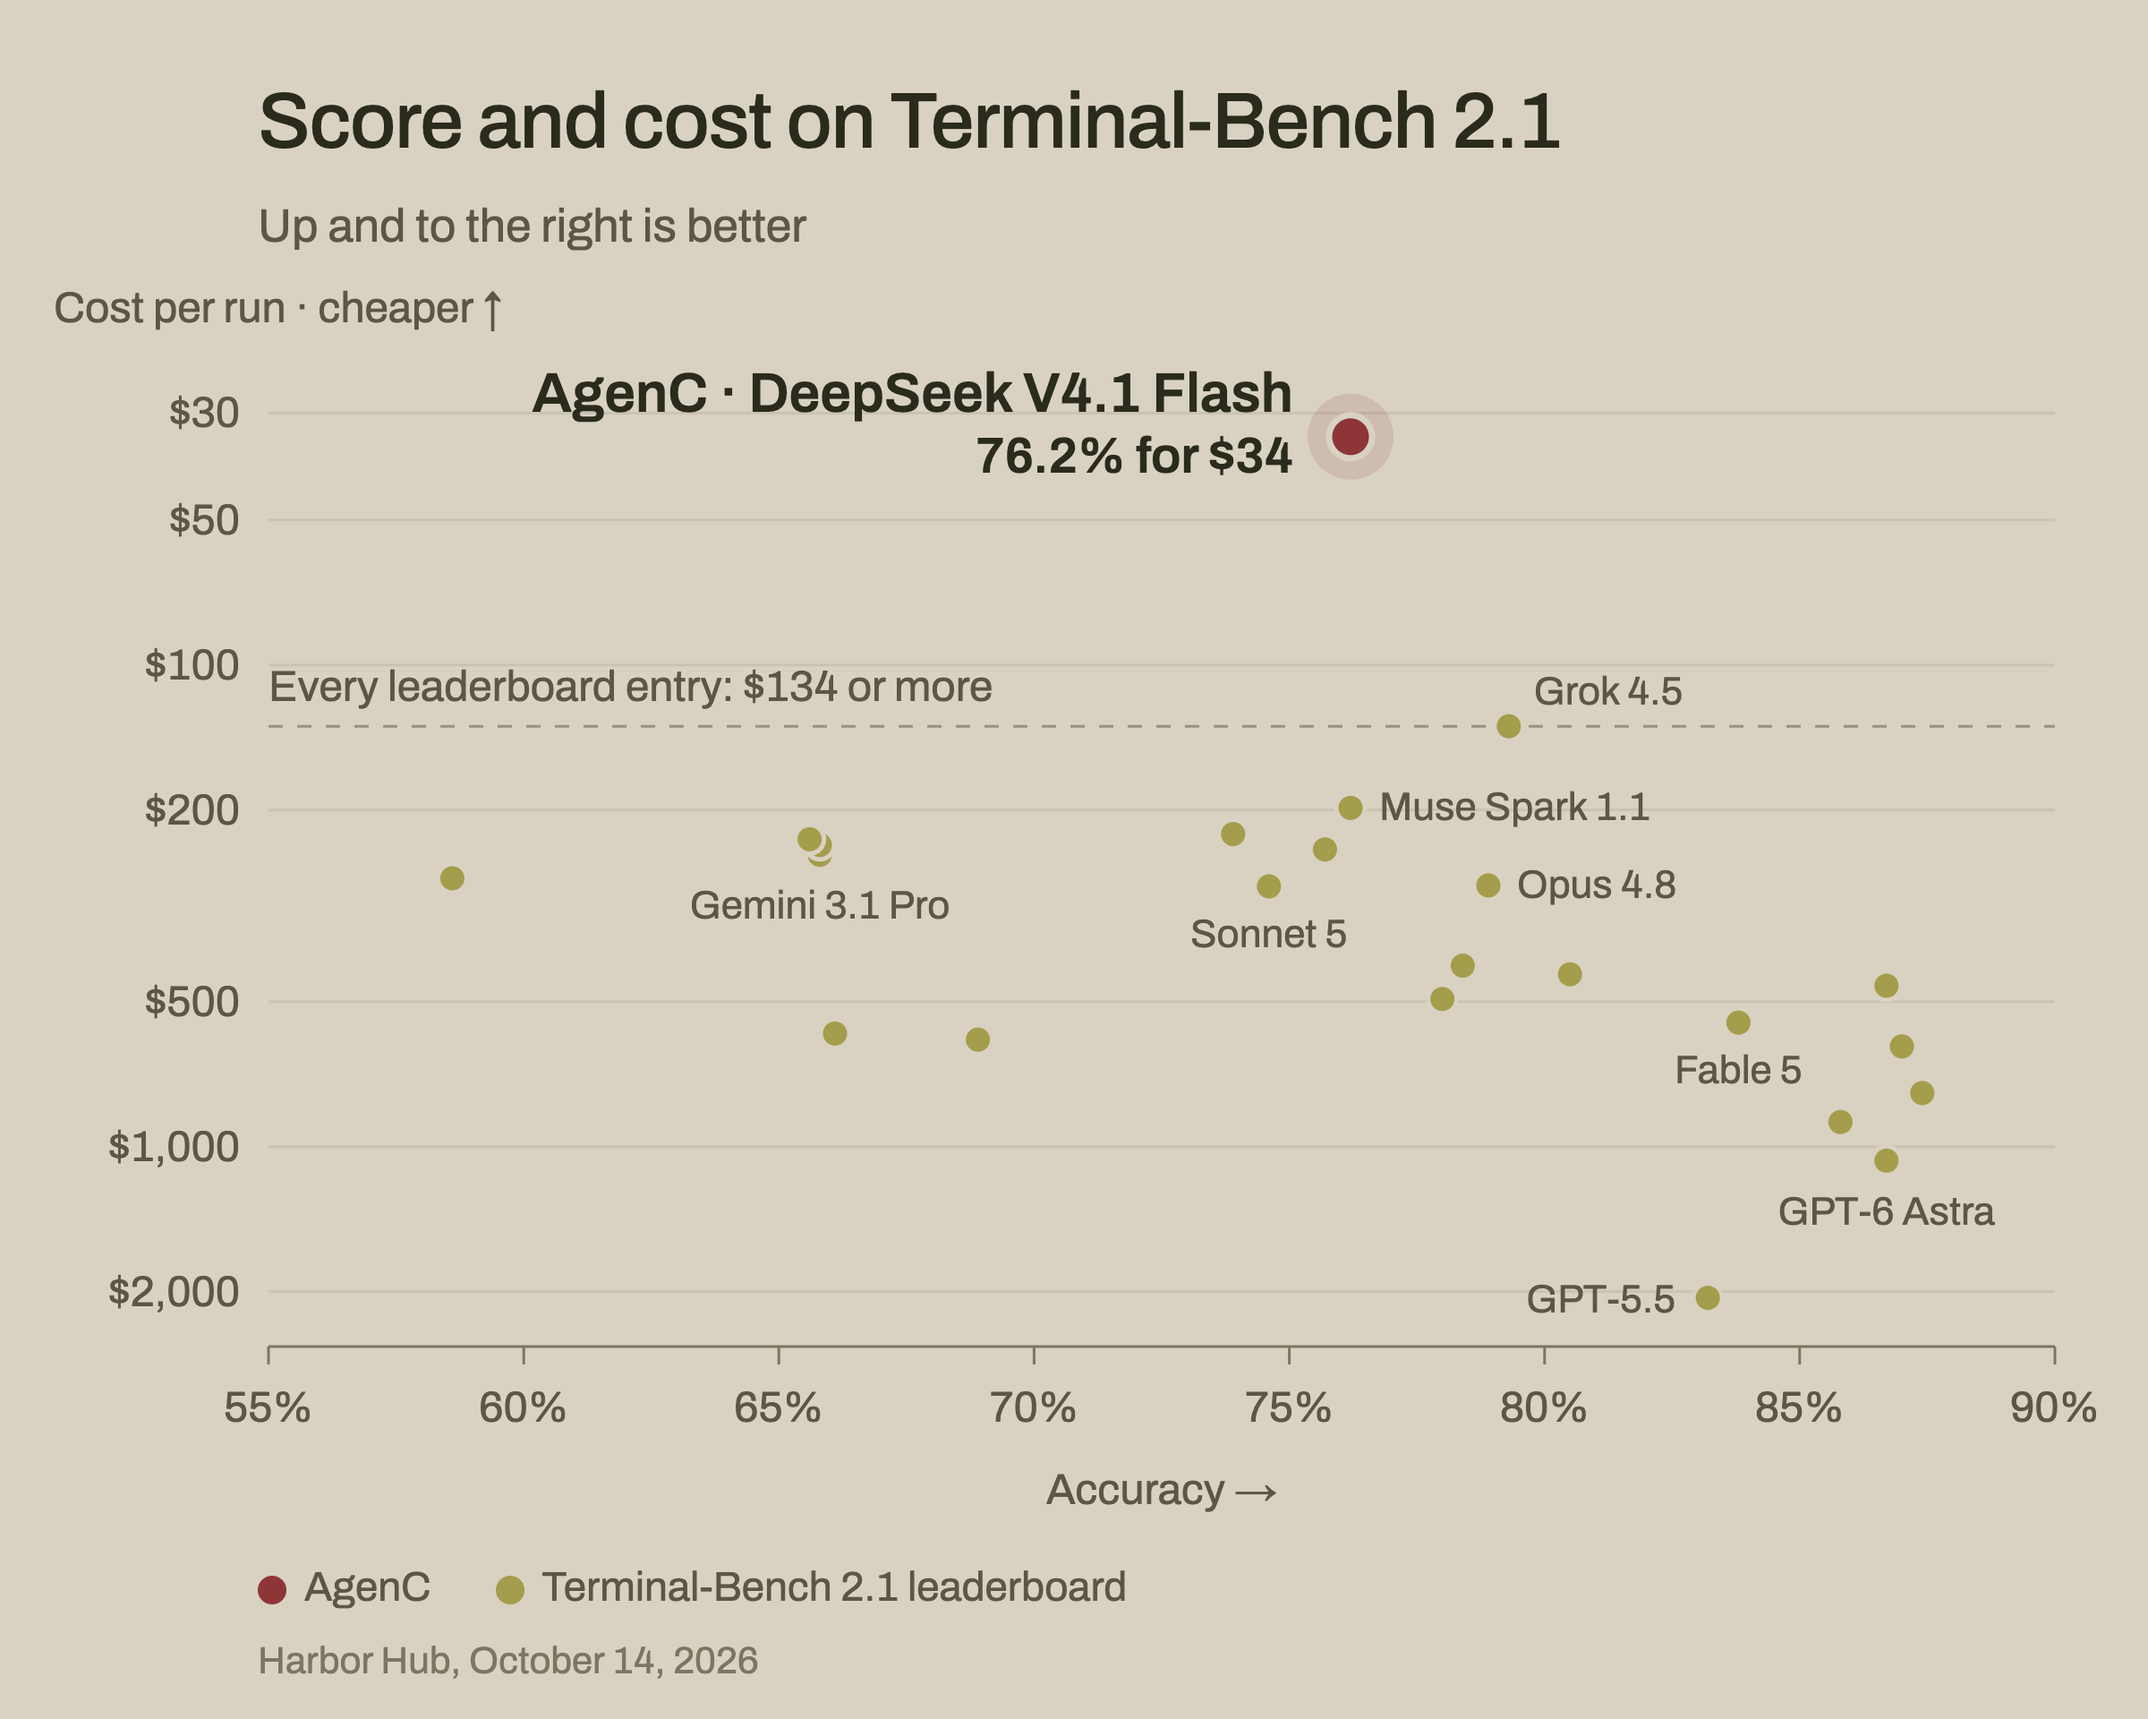
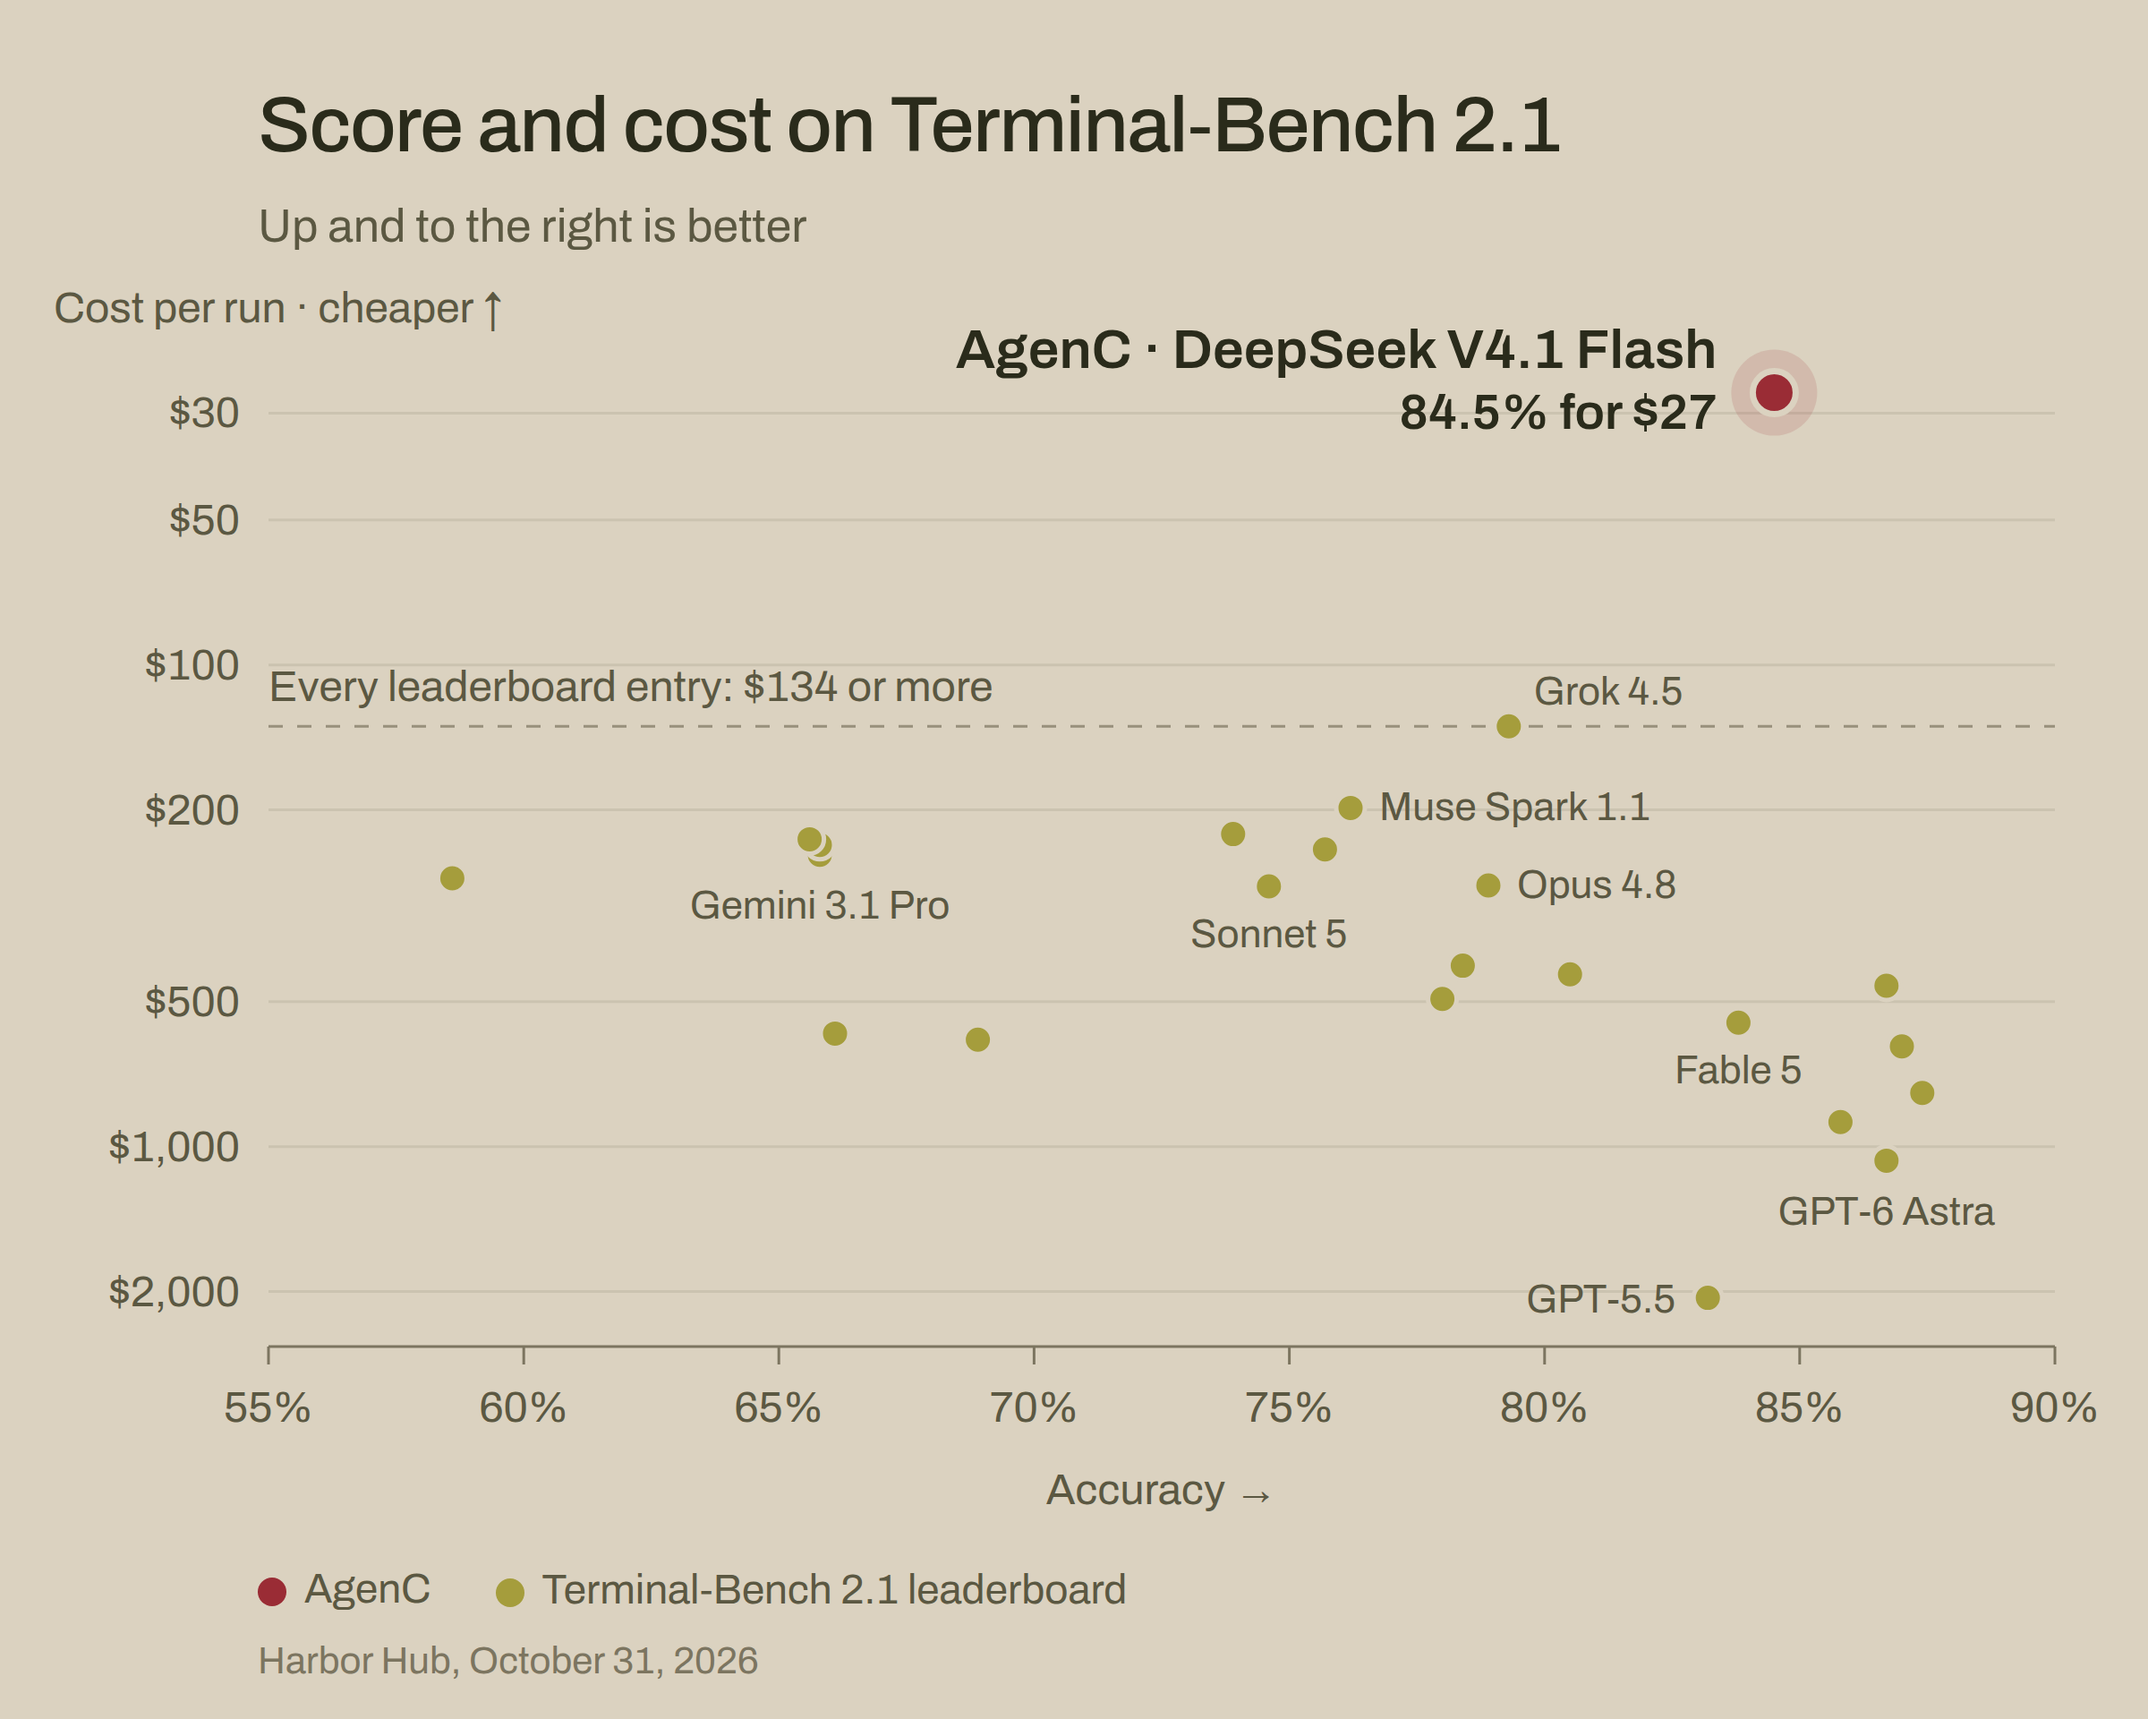
Show the 84.5% Terminal-Bench 2.1 result for $27 in the READMEs (#3361)

diff --git a/README.md b/README.md
@@ -24,7 +24,7 @@ Then run `agenc onboard`. Windows and npm installs are on
 [get.agenc.ag](https://get.agenc.ag), and you can
 [verify the download](https://get.agenc.ag/verify/).
 
-- With DeepSeek V4.1 Flash it scored 76.2% on Terminal-Bench 2.1 for $34. Every
+- With DeepSeek V4.1 Flash it scored 84.5% on Terminal-Bench 2.1 for $27. Every
   entry on the Harbor Hub leaderboard spent at least $134.
   [Full results](https://get.agenc.ag/terminal-bench/).
 - Bring any model: OpenAI, Anthropic, Grok, Gemini, DeepSeek, OpenRouter and
@@ -33,7 +33,7 @@ Then run `agenc onboard`. Windows and npm installs are on
   start background agents and follow them from your phone.
 
 <p align="center">
-  <a href="https://get.agenc.ag/terminal-bench/"><img src="docs/media/terminal-bench-2-1-cost.png" width="720" alt="Chart of score against cost on Terminal-Bench 2.1. AgenC Core with DeepSeek V4.1 Flash sits at the top, 76.2% for $34. The leaderboard entries all cost $134 or more."></a>
+  <a href="https://get.agenc.ag/terminal-bench/"><img src="docs/media/terminal-bench-2-1-cost.png" width="720" alt="Chart of score against cost on Terminal-Bench 2.1. AgenC Core with DeepSeek V4.1 Flash sits at the top, 84.5% for $27. The leaderboard entries all cost $134 or more."></a>
 </p>
 
 **AgenC Core** is the implementation repository for the `agenc` CLI. A local

diff --git a/packages/agenc/README.md b/packages/agenc/README.md
@@ -8,7 +8,7 @@ AgenC Core is a coding agent for your terminal. It works with any model
 provider: 25 are built in, including OpenAI, Anthropic, xAI Grok, Gemini,
 DeepSeek, Venice and local models through Ollama or LM Studio.
 
-With DeepSeek V4.1 Flash it scored 76.2% on Terminal-Bench 2.1 for $34.
+With DeepSeek V4.1 Flash it scored 84.5% on Terminal-Bench 2.1 for $27.
 [Results](https://get.agenc.ag/terminal-bench/)
 
 ## Install
